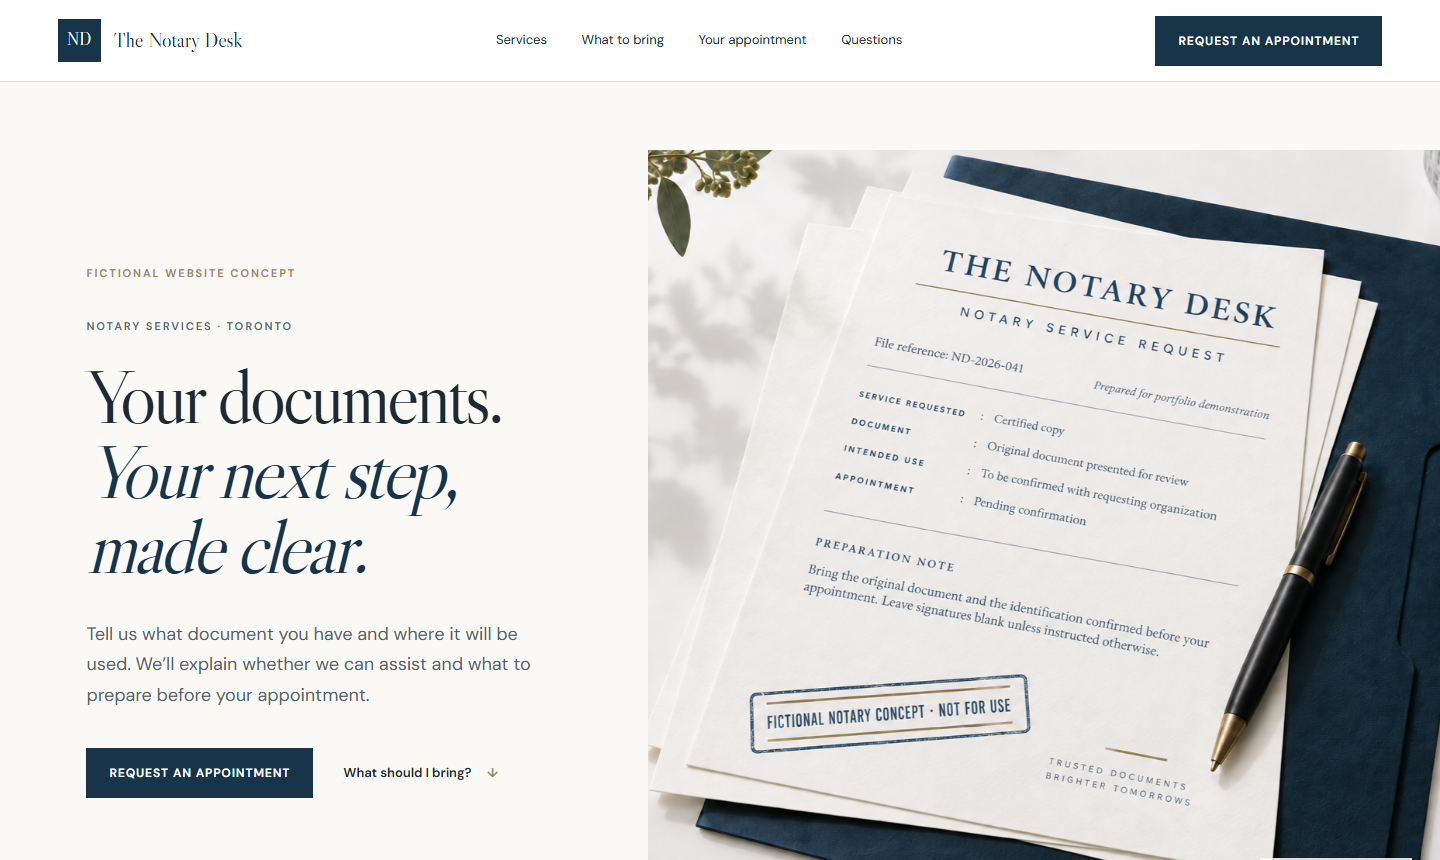
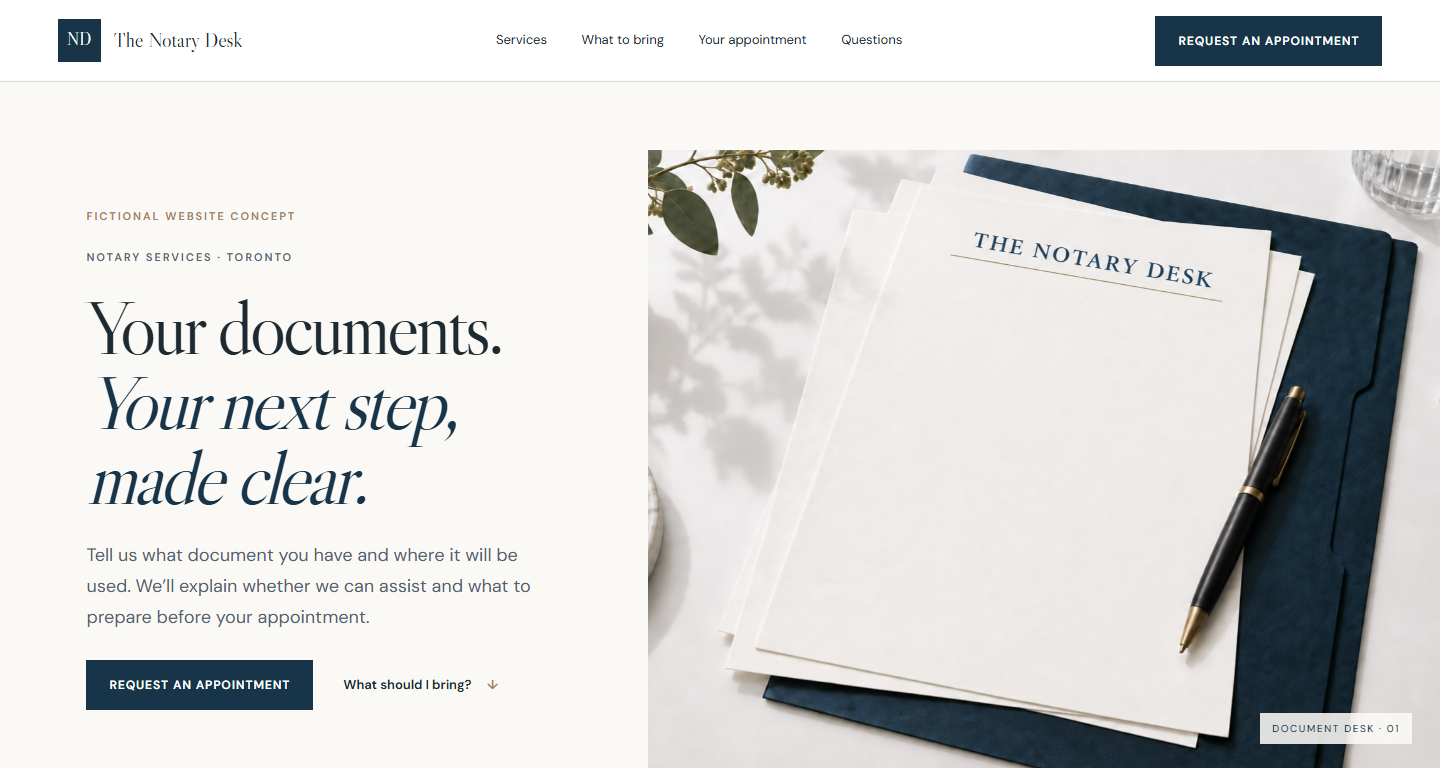
Move notary concept to public portfolio route

diff --git a/src/App.jsx b/src/App.jsx
@@ -114,7 +114,7 @@ function kindFromText(text=''){ const s=text.toLowerCase(); if(s.includes('finan
 
 function Mega({ label, to, groups }) { return <div className="nav-item"><Link className="nav-trigger" to={to}>{label}</Link><div className="mega"><div className="mega-grid">{groups.map(([heading, href, items]) => <div className="mega-col" key={heading}><Link className="mega-head" to={href}>{heading}</Link>{items.map(([name, path]) => <Link className="mega-link" to={path} key={path}>{name}</Link>)}</div>)}</div></div></div>; }
 function HomeMenu(){ return <div className="nav-item nav-home"><Link className="nav-trigger" to="/">Home</Link><div className="nav-home-menu"><Link to="/about/">About Magneo</Link><Link to="/about/adele-salikhova/">Meet Adele</Link></div></div>; }
-const legalConceptRoutes = {'/portfolio/legal-websites/personal-injury-classic':PersonalInjuryClassic,'/portfolio/legal-websites/personal-injury-bold':PersonalInjuryBoldTest,'/portfolio/legal-websites/litigation-editorial':LitigationEditorialTest,'/portfolio/legal-websites/brain-injury-3d':BrainInjury3DTest,'/portfolio/legal-websites/personal-injury-cinematic':PersonalInjuryCinematicTest,'/portfolio/legal-websites/personal-injury-family-focused':TestLawyer6,'/portfolio/legal-websites/personal-injury-family-focused/test':PersonalInjuryFamilyTest,'/portfolio/legal-websites/immigration-welcome':ImmigrationWelcome,'/portfolio/legal-websites/notary-document-desk':NotaryDocumentDesk};
+const legalConceptRoutes = {'/portfolio/legal-websites/personal-injury-classic':PersonalInjuryClassic,'/portfolio/legal-websites/personal-injury-bold':PersonalInjuryBoldTest,'/portfolio/legal-websites/litigation-editorial':LitigationEditorialTest,'/portfolio/legal-websites/brain-injury-3d':BrainInjury3DTest,'/portfolio/legal-websites/personal-injury-cinematic':PersonalInjuryCinematicTest,'/portfolio/legal-websites/personal-injury-family-focused':TestLawyer6,'/portfolio/legal-websites/personal-injury-family-focused/test':PersonalInjuryFamilyTest,'/portfolio/legal-websites/immigration-welcome':ImmigrationWelcome,'/portfolio/notary-services':NotaryDocumentDesk};
 function Layout({ children }) { const { pathname } = useLocation(); const cleanPath=pathname.replace(/\/$/,'')||'/'; const Concept=legalConceptRoutes[cleanPath]; if(Concept) return <Concept/>; if(cleanPath==='/test6') return <TestLawyer6/>; if(['/test','/test2','/test3','/test4','/test5'].includes(cleanPath)) return children; if(cleanPath==='/portfolio') children=<PortfolioTest/>; if(cleanPath==='/portfolio/legal-websites') children=<LegalWebsites/>; const usesPortfolioFooter=['/portfolio','/portfolio/legal-websites'].includes(cleanPath); return <><nav className="nav"><div className="container nav-inner"><Link className="brand" to="/">Magneo</Link><div className="nav-links"><HomeMenu/><Mega label="Services" to="/services/" groups={serviceMenus}/><Mega label="Industries" to="/industries/" groups={Object.values(industries).map((i)=>[i.label,i.route,i.subs])}/><Link to="/portfolio/">Portfolio</Link><a href={BLOG}>Insights & Blog</a><Link to="/contact/">Contact</Link></div><Link className="btn" to="/contact/">Book a call</Link></div></nav><main>{children}</main><Footer description={usesPortfolioFooter?'Digital marketing for regulated industries. Based in Toronto, serving Canada and the USA.':undefined} showLocation={!usesPortfolioFooter}/></>; }
 function Hero({ label, title, intro, stat='SEO', statText='Compliance-aware digital marketing systems for regulated industries.' }) { return <section className="hero"><div className="container hero-grid"><div><div className="crumb">Home / {label}</div><div className="label">{label}</div><h1 dangerouslySetInnerHTML={{__html:title}}/><p className="intro">{intro}</p><div className="actions"><Link className="btn" to="/contact/">Request a free audit</Link><Link className="btn outline" to="/services/">Explore services</Link></div></div><div className="glass"><span className="label">Magneo system</span><strong>{stat}</strong><p>{statText}</p></div></div></section>; }
 function Marquee({ items }) { const list = items || ['AI SEO','AI Social Media','AI UGC','AI Video Production','AI Web Design','AI Content Marketing','Compliance-Aware AI','Regulated Growth']; return <div className="marquee ai-marquee">{list.map(([label,path]) => <Link key={label} to={path}>{label}</Link>)}</div>; }

diff --git a/src/styles/notary-document-desk.css b/src/styles/notary-document-desk.css
@@ -10,6 +10,7 @@
 .nd-request{padding:clamp(85px,9vw,145px) clamp(25px,7vw,120px);background:#fff;display:grid;grid-template-columns:.78fr 1.22fr;gap:8vw}.nd-request-intro h2{margin:24px 0 28px}.nd-request-intro p{color:#5c6b73;max-width:500px}.nd-request form{display:grid;grid-template-columns:1fr 1fr;gap:26px 22px}.nd-request label{font-size:11px;text-transform:uppercase;letter-spacing:.13em;color:#53636b}.nd-request label small{float:right;font-size:9px;color:#8b969a}.nd-request input,.nd-request select,.nd-request textarea{display:block;width:100%;border:0;border-bottom:1px solid #aebbc1;background:transparent;border-radius:0;padding:12px 2px;font:15px 'DM Sans',sans-serif;color:var(--nd-dark);outline:none}.nd-request textarea{border:1px solid #aebbc1;margin-top:12px;padding:14px;resize:vertical}.nd-request input:focus,.nd-request select:focus,.nd-request textarea:focus{border-color:var(--nd-ink);box-shadow:0 2px 0 var(--nd-ink)}.nd-wide{grid-column:1/-1}.nd-helper{font-size:12px;color:#68767d;margin:-8px 0 0}.nd-request button{width:100%;justify-content:space-between}.nd-demo{font-size:12px;color:#6a7478;border-left:2px solid var(--nd-brass);padding-left:14px;margin:0}.nd-form-response{color:var(--nd-ink);font-weight:600;margin:0}
 .nd-footer{padding:44px clamp(24px,5vw,80px);background:#102839;color:#fff;display:flex;justify-content:space-between;align-items:flex-end;gap:30px}.nd-footer .nd-logo span{background:#fff;color:var(--nd-ink)}.nd-footer .nd-logo b{color:#fff}.nd-footer p{max-width:620px;color:#cbd6dc;font-size:13px;margin:22px 0 0}.nd-footer>a{font-size:12px;text-transform:uppercase;letter-spacing:.12em;color:#d4bd92}
 .nd-page .nd-hero-art img{inset:-2%;width:104%;height:104%;transform-origin:center;animation:nd-desk-align 1.65s cubic-bezier(.2,.75,.25,1) .08s both}@keyframes nd-desk-align{from{transform:translate(26px,-20px) rotate(.9deg) scale(1.025)}to{transform:translate(0,0) rotate(0) scale(1)}}
+@media(min-width:1001px){.nd-hero{min-height:610px}.nd-hero-copy{padding-top:58px;padding-bottom:58px}.nd-disclosure{margin-bottom:24px}.nd-hero-copy>p{margin-top:26px;margin-bottom:28px}.nd-hero-art{min-height:610px}}
 @media(max-width:1000px){.nd-header nav{display:none}.nd-hero{grid-template-columns:1fr}.nd-hero-art{min-height:520px}.nd-section-head,.nd-bring,.nd-faq,.nd-request{grid-template-columns:1fr;gap:50px}.nd-provider>div:last-child{padding:70px 48px}.nd-service-grid{grid-template-columns:1fr}.nd-service-grid article{border-right:0;border-bottom:1px solid #cfd8dc;min-height:290px}.nd-service-grid article:last-child{border-bottom:0}.nd-service-grid h3{margin-top:50px}.nd-step-grid{grid-template-columns:1fr}.nd-step-grid article{border-right:0;border-bottom:1px solid rgba(255,255,255,.25)}.nd-step-grid article:last-child{border-bottom:0}}
 @media(max-width:680px){.nd-header{height:68px;padding:0 18px}.nd-logo b{font-size:17px}.nd-logo span{width:38px;height:38px}.nd-header-button{display:none}.nd-hero{min-height:0}.nd-hero-copy{padding:64px 22px 58px}.nd-disclosure{margin-bottom:25px}.nd-hero h1{font-size:48px}.nd-hero-copy>p{font-size:16px;margin:26px 0 30px}.nd-actions{align-items:flex-start;flex-direction:column;gap:12px}.nd-hero-art{min-height:390px}.nd-paper{width:36%;height:42%}.nd-section{padding:75px 22px}.nd-section-head{margin-bottom:38px}.nd-section-head h2,.nd-bring h2,.nd-provider h2,.nd-faq h2,.nd-request h2{font-size:43px}.nd-service-grid article{padding:28px;min-height:270px}.nd-service-grid h3{font-size:34px}.nd-bring li{grid-template-columns:48px 1fr}.nd-step-grid article{padding:32px 16px;grid-template-columns:38px 1fr}.nd-provider{grid-template-columns:1fr;min-height:0}.nd-provider-image{min-height:480px}.nd-provider>div:last-child{padding:70px 22px}.nd-faq-list details p{margin:-4px 8px 28px 52px}.nd-request{padding:75px 22px}.nd-request form{grid-template-columns:1fr}.nd-wide{grid-column:auto}.nd-footer{align-items:flex-start;flex-direction:column;padding:42px 22px}}
 @media(prefers-reduced-motion:reduce){.nd-page *{scroll-behavior:auto!important}.nd-paper,.nd-page .nd-hero-art img{animation:none!important}.nd-button{transition:none}}

diff --git a/src/NotaryDocumentDesk.jsx b/src/NotaryDocumentDesk.jsx
@@ -38,7 +38,7 @@ export default function NotaryDocumentDesk(){
     description.content = 'A fictional notary-services website concept created for the Magneo legal website portfolio.';
     let canonical = document.querySelector('link[rel="canonical"]');
     if(!canonical){ canonical = document.createElement('link'); canonical.rel = 'canonical'; document.head.appendChild(canonical); }
-    canonical.href = 'https://magneo.ca/portfolio/legal-websites/notary-document-desk/';
+    canonical.href = 'https://magneo.ca/portfolio/notary-services/';
   },[]);
 
   const handleSubmit = (event) => {
@@ -69,7 +69,7 @@ export default function NotaryDocumentDesk(){
           <div className="nd-actions"><a className="nd-button" href="#nd-request">Request an appointment</a><a className="nd-text-link" href="#nd-bring">What should I bring? <span>↓</span></a></div>
         </div>
         <div className="nd-hero-art" aria-label="Blank papers, a document folder, and a pen arranged on a desk">
-          <img src="/notary-document-desk-hero-v3.png" alt="Fictional notary service request arranged over an ink-blue document folder beside a pen"/>
+          <img src="/notary-document-desk-hero-v4.png" alt="The Notary Desk letterhead arranged over an ink-blue document folder beside a pen"/>
           <small aria-hidden="true">Document desk · 01</small>
         </div>
       </section>
@@ -92,7 +92,7 @@ export default function NotaryDocumentDesk(){
 
       <section className="nd-provider" aria-labelledby="nd-provider-title">
         <div className="nd-provider-image"><img src="/notary-provider-portrait.png" alt="Fictional notary provider seated at an orderly desk" loading="lazy"/></div>
-        <div><span>Fictional provider profile</span><h2 id="nd-provider-title">A calm, organized appointment.</h2><p>The fictional provider in this concept begins by confirming the document, its intended use, and what you need to bring. Requirements and availability are reviewed before an appointment is confirmed.</p><a className="nd-text-link" href="#nd-request">Organize your appointment <span>↓</span></a></div>
+        <div><span>Fictional provider profile</span><h2 id="nd-provider-title">A calm, organized appointment.</h2><p>Your appointment starts with understanding the document and where it will be used. We explain what to bring, confirm the fee, and walk you through the required steps.</p><a className="nd-text-link" href="#nd-request">Organize your appointment <span>↓</span></a></div>
       </section>
 
       <section className="nd-section nd-faq" id="nd-faq" aria-labelledby="nd-faq-title">

diff --git a/src/LegalWebsites.jsx b/src/LegalWebsites.jsx
@@ -8,7 +8,7 @@ const concepts = [
   { number:'04', type:'Serious injury', title:'Brain injury 3D', route:'/portfolio/legal-websites/brain-injury-3d/', image:'/brain-injury-head-3d-v2.png', className:'brain', description:'A specialist injury concept that uses 3D imagery to establish its focus and explore a distinctive way to introduce brain injury information.', tags:['3D experience','Specialist','Immersive'] },
   { number:'05', type:'Personal injury', title:'Cinematic recovery', route:'/portfolio/legal-websites/personal-injury-cinematic/', image:'/test5-cinematic-hero.png', className:'cinematic', description:'A personal injury concept that uses a documentary-style narrative to introduce the human context behind an injury claim.', tags:['Cinematic','Story-led','Atmospheric'] },
   { number:'06', type:'Personal injury', title:'Family-focused care', route:'/portfolio/legal-websites/personal-injury-family-focused/', image:'/test6-family-hero.png', className:'family', description:'A reassuring personal injury concept written for families seeking clear information after a life-changing injury.', tags:['Empathetic','Warm','Family-first'] },
-  { number:'07', type:'Notary services', title:'The document desk', route:'/portfolio/legal-websites/notary-document-desk/', image:'/notary-document-desk-hero-v3.png', className:'notary', description:'A precise editorial notary-services concept that makes document preparation and appointment expectations easy to understand.', tags:['Editorial','Organized','Service-led'] },
+  { number:'07', type:'Notary services', title:'The document desk', route:'/portfolio/notary-services/', image:'/notary-document-desk-hero-v4.png', className:'notary', description:'A precise editorial notary-services concept that makes document preparation and appointment expectations easy to understand.', tags:['Editorial','Organized','Service-led'] },
 ];
 
 export default function LegalWebsites(){

diff --git a/src/PortfolioTest.jsx b/src/PortfolioTest.jsx
@@ -9,7 +9,7 @@ const websites = [
   { image:'/portfolio/websites/personal-injury-bold-preview-v2.png', name:'Personal injury · Bold', route:'/portfolio/legal-websites/personal-injury-bold/', style:'showcase' },
   { image:'/portfolio/websites/brain-injury-3d-preview.png', name:'Brain injury · 3D', route:'/portfolio/legal-websites/brain-injury-3d/', style:'showcase' },
   { image:'/portfolio/websites/personal-injury-cinematic-preview.png', name:'Personal injury · Cinematic', route:'/portfolio/legal-websites/personal-injury-cinematic/', style:'showcase' },
-  { image:'/portfolio/websites/notary-document-desk-preview.png', name:'Notary services · Document desk', route:'/portfolio/legal-websites/notary-document-desk/', style:'showcase' },
+  { image:'/portfolio/websites/notary-document-desk-preview.png', name:'Notary services · Document desk', route:'/portfolio/notary-services/', style:'showcase' },
 ];
 
 const socialExamples = [
